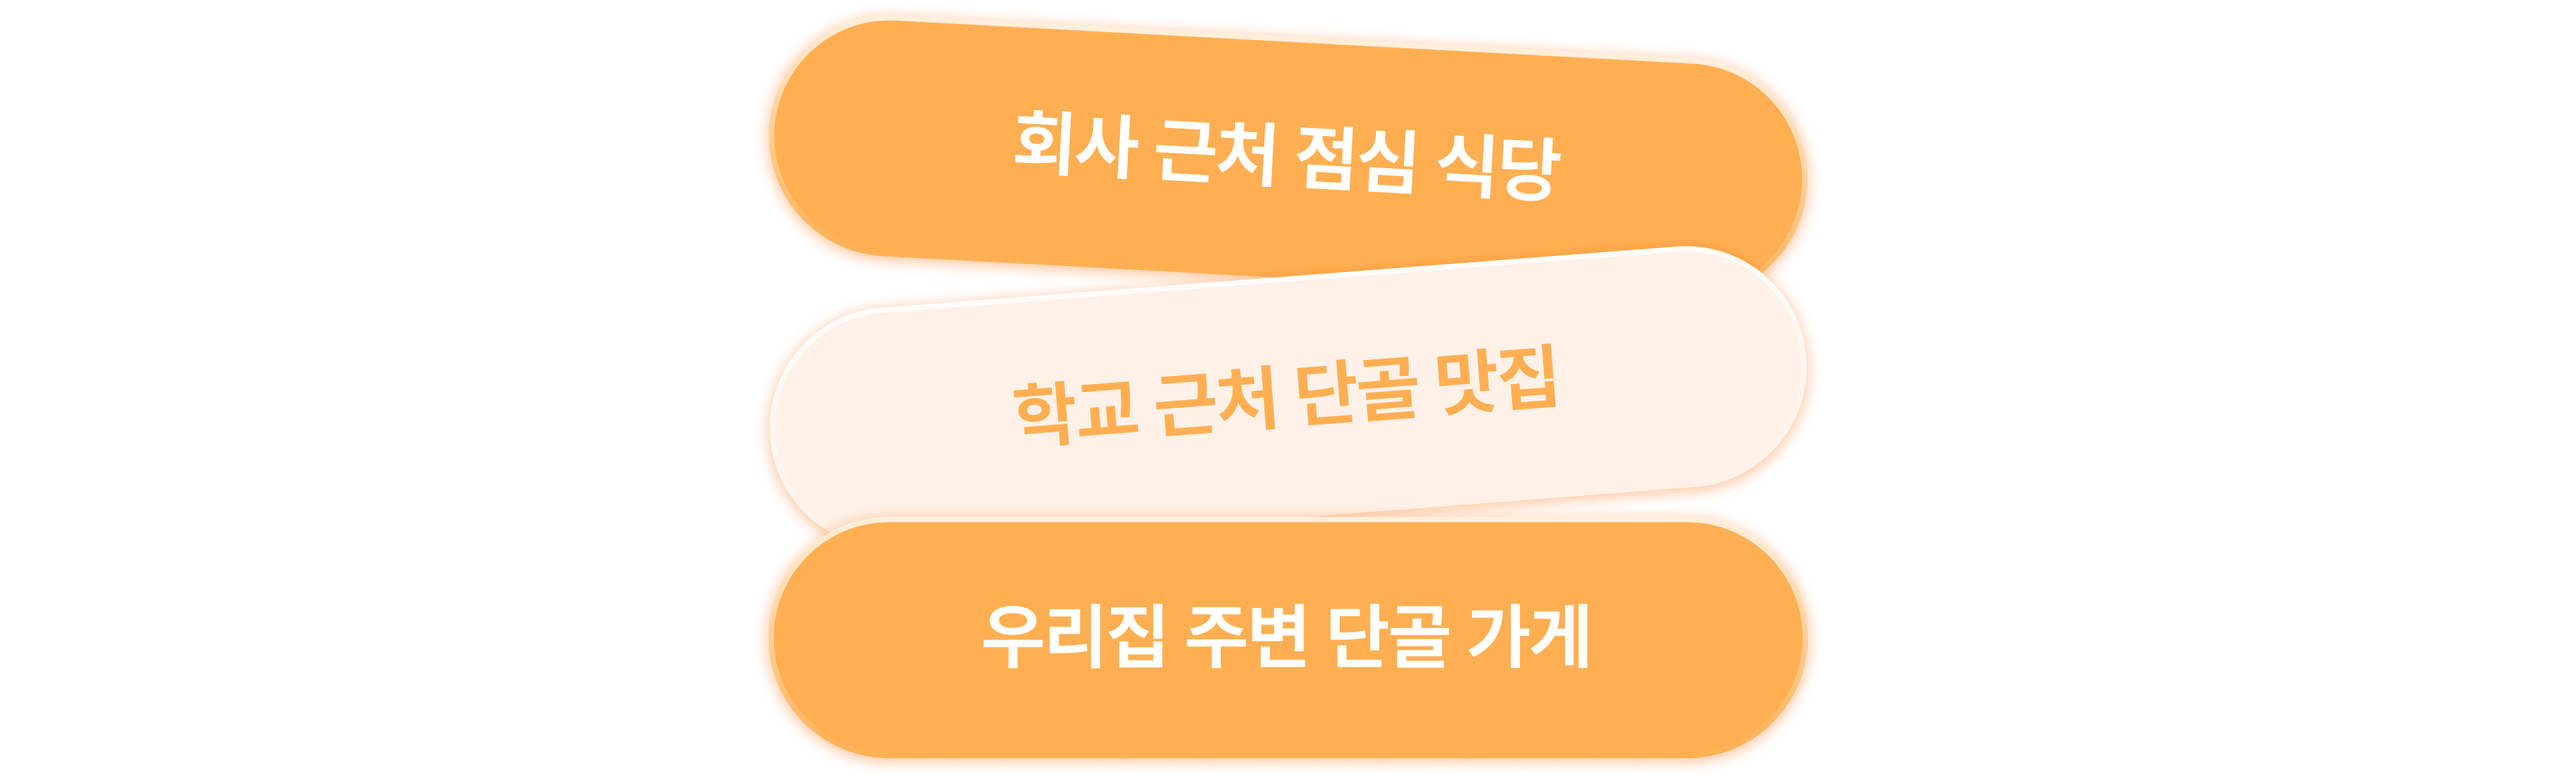
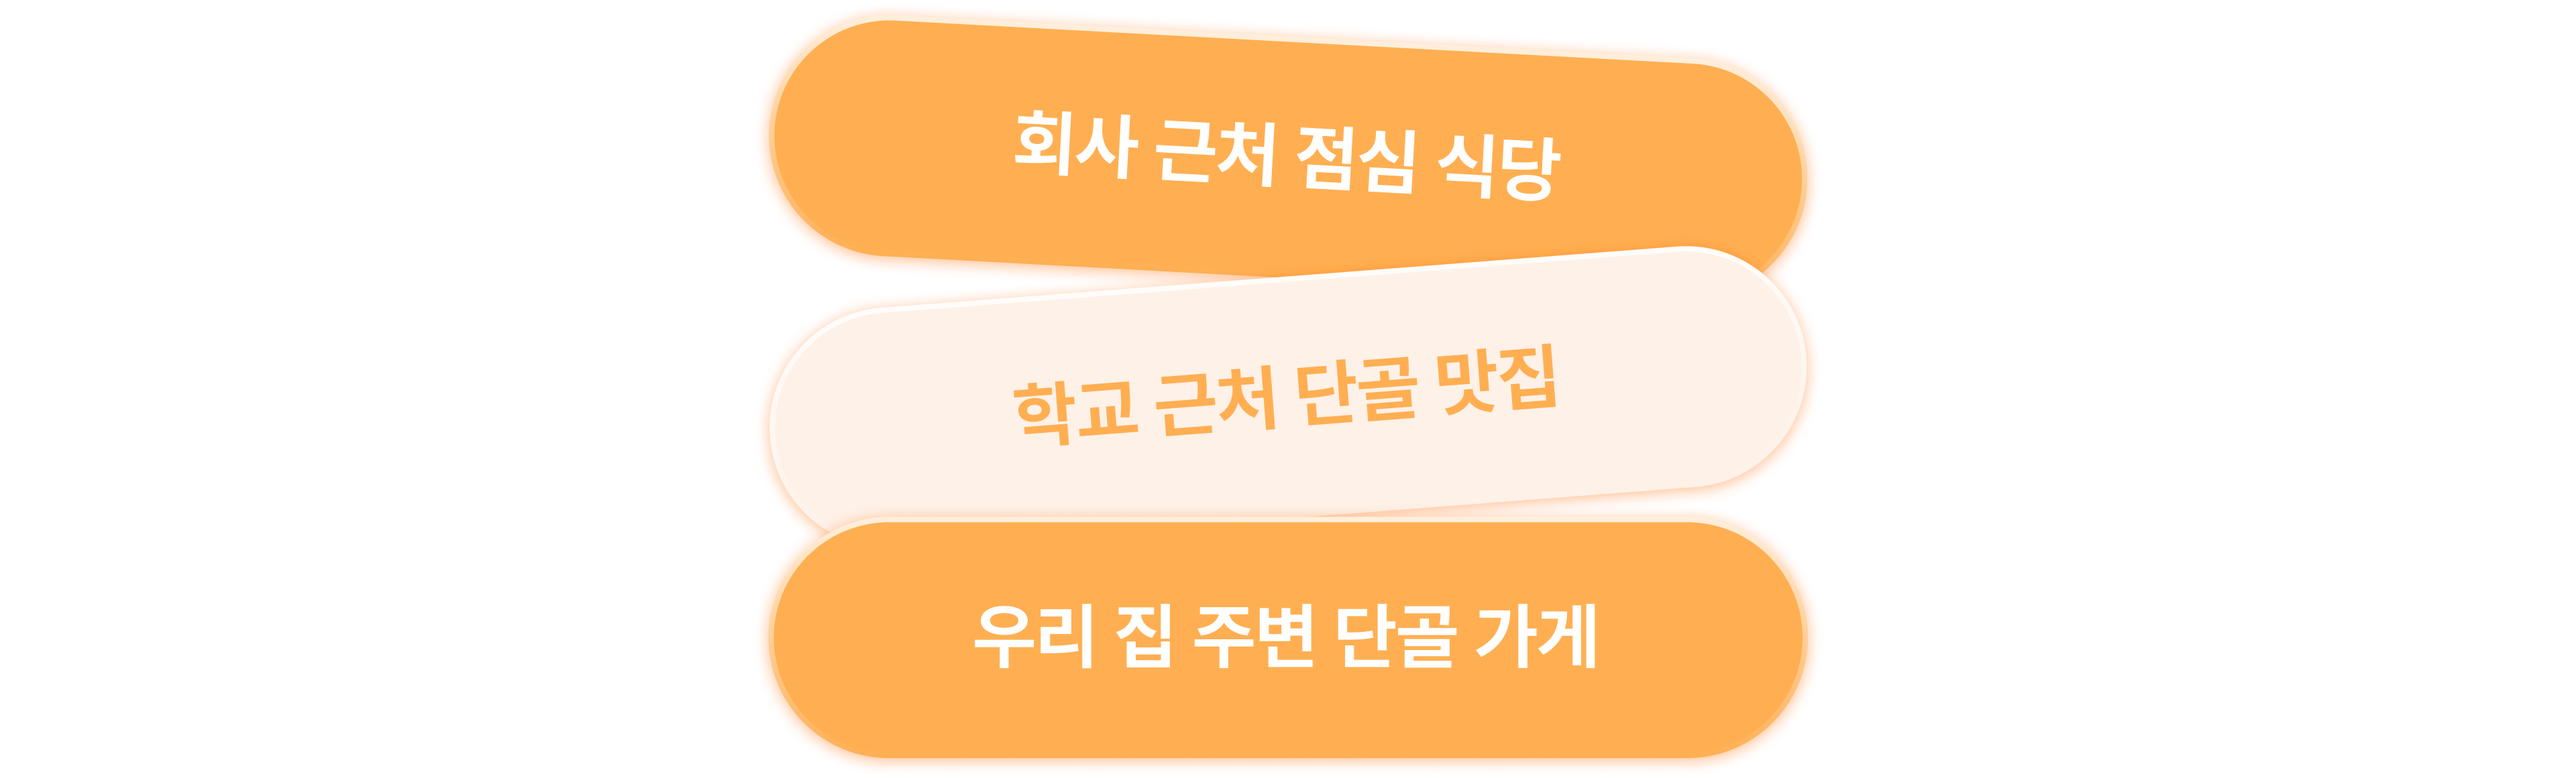
fix: 띄어쓰기 수정

Changed region(s): [[0.375, 0.7752, 0.625, 0.8682]]

diff --git a/src/components/Section1.tsx b/src/components/Section1.tsx
@@ -46,13 +46,13 @@ const Section1 = () => {
         <Title>
           당신만을 위한 <Bold>푸드패스</Bold>
         </Title>
-        <SubTitle>저 여기 단골인데.. 할인좀 해주세요!</SubTitle>
+        <SubTitle>저 여기 단골인데.. 할인 좀 해주세요!</SubTitle>
       </TitleBox>
       <ImageBox>
         <BackImage visible={"desktop"} src={BackgroundImage} />
         <BackImage visible={"phone"} src={BackgroundImage_phone} />
-        <TextBoxL>{`나 공강때 여기만 가는데\n단골로 인정받고싶어`}</TextBoxL>
-        <TextBoxR>{`매일 가는 가게라서\n할인 좀 받고싶은데 ... 안되려나`}</TextBoxR>
+        <TextBoxL>{`나 공강 때 여기만 가는데\n단골로 인정받고 싶어`}</TextBoxL>
+        <TextBoxR>{`매일 가는 가게라서\n할인 좀 받고 싶은데 ... 안되려나?`}</TextBoxR>
       </ImageBox>
     </Container>
   );

diff --git a/src/components/Section2.tsx b/src/components/Section2.tsx
@@ -29,7 +29,7 @@ const Section2 = () => {
         initial="offscreen"
         whileInView="onscreen"
         variants={Variants}
-      >{`내가 자주 가는 카페, 음식점만 등록하면\n나만을 위한 할인혜택이?`}</Title>
+      >{`내가 자주 가는 카페, 음식점만 등록하면\n나만을 위한 할인 혜택이?`}</Title>
       <SubTitle
         style={{ marginBottom: "2.75rem" }}
         initial="offscreen"
@@ -40,7 +40,7 @@ const Section2 = () => {
         initial="offscreen"
         whileInView="onscreen"
         variants={Variants}
-      >{`단골가게를 서비스에 등록만하면,\n내가 자주가는 가게에서 할인가로 만나볼 수 있어요!`}</SubTitle>
+      >{`단골가게를 서비스에 등록만 하면,\n내가 자주가는 가게에서 할인가로 만나볼 수 있어요!`}</SubTitle>
     </Container>
   );
 };

diff --git a/src/components/Section3.tsx b/src/components/Section3.tsx
@@ -21,7 +21,7 @@ const Section3 = () => {
   };
   return (
     <Container>
-      <Title>{`단골로 등록만하면,\n모두 다 할인가로 즐길 수 있어요!`}</Title>
+      <Title>{`단골로 등록만 하면,\n모두 다 할인가로 즐길 수 있어요!`}</Title>
       <Image
         visible="desktop"
         initial="default"
